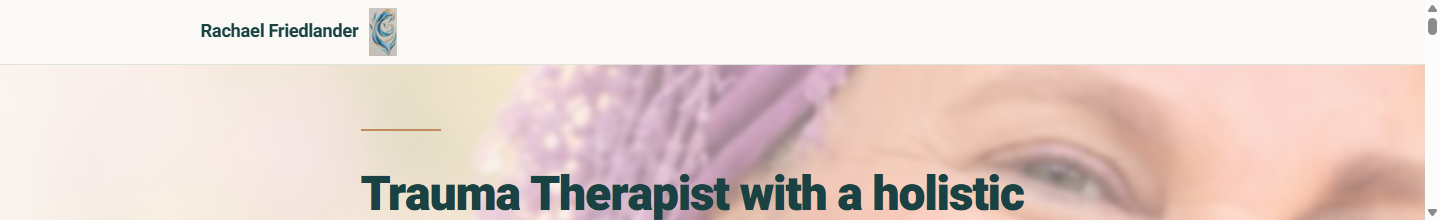
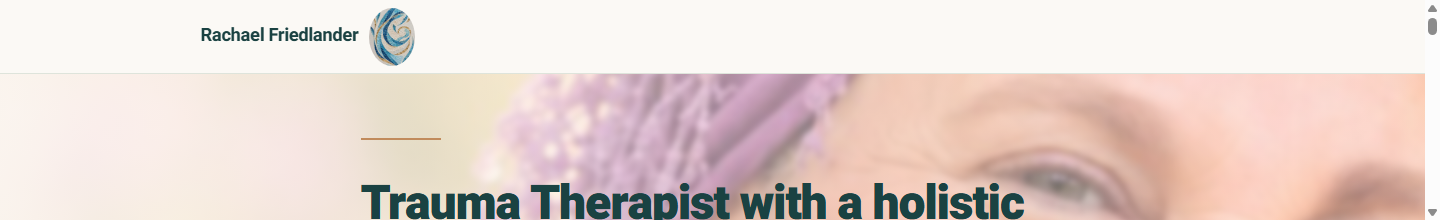
Pictures fix 1, and About fix

diff --git a/index.html b/index.html
@@ -71,11 +71,11 @@
     <section class="band band-sage">
       <div class="wrap narrow">
         <span class="rule" aria-hidden="true"></span>
-        <h2>About</h2>
+        <h2>About Me</h2>
         <p class="welcome">Hey there and welcome!</p>
-        <p>My name is Rachael and I have a Masters in Counseling and a Masters in Social Work. I trained as a CBT therapist at the Israel Center for the Treatment of Psychotrauma and am a Somatic Experiencing therapist.</p>
+        <p>I am a licensed clinical social worker with a Masters in Social work and a Masters in Counseling. I trained in Cognitive Behavioural Therapy at the Israel Centre for Psychotrauma and am a qualified Somatic Experiencing therapist.</p>
         <p>I also trained with Dr Jonathan Evans (pediatric osteopath and craniosacral therapist) in Touch Therapy with newborns and infants.</p>
-        <p>I have extensive experience with pre and peri natal trauma, developmental trauma, anxiety, depression, chronic pain, medical procedure trauma in infants and children, grief and loss and relational issues.</p>
+        <p>I have extensive experience with pre and perinatal trauma, developmental trauma, anxiety, depression in women, chronic medical procedure trauma in infants and children, grief and loss and relational issues.</p>
       </div>
     </section>
 

diff --git a/styles.css b/styles.css
@@ -7,7 +7,7 @@
   --button-hover: #b07d4f;
   --line: #d2dcd0;
   --sage: #e0e7df;
-  --header: 65px;
+  --header: 74px;
   --shadow: 0 10px 30px rgba(26, 66, 66, 0.05);
 }
 
@@ -136,8 +136,11 @@ p {
 
 .brand-logo {
   display: block;
-  height: 48px;
-  width: auto;
+  width: 46px;
+  height: 58px;
+  object-fit: cover;
+  object-position: center 38%;
+  border-radius: 50%;
 }
 
 .button {
@@ -278,9 +281,9 @@ p {
 
 @media (max-width: 767px) {
   .help-bg {
-    top: 34%;
-    bottom: 12%;
-    width: min(22rem, 92%);
+    top: 37%;
+    bottom: 20%;
+    width: min(17rem, 74%);
   }
 }
 
@@ -302,8 +305,8 @@ p {
   background: var(--card);
 }
 
-.card-focus {
-  background: rgba(251, 250, 249, 0.78);
+.band-help .card {
+  background: rgba(251, 250, 249, 0.28);
 }
 
 .card .rule {
@@ -361,9 +364,17 @@ p {
   }
 
   .help-bg {
-    top: 16%;
-    bottom: 10%;
-    width: min(28rem, 38vw);
+    top: 42%;
+    bottom: auto;
+    width: 210px;
+    height: 236px;
+  }
+
+  .help-bg img {
+    object-fit: contain;
+    object-position: center;
+    -webkit-mask-image: none;
+    mask-image: none;
   }
 
   .hero-media img {
